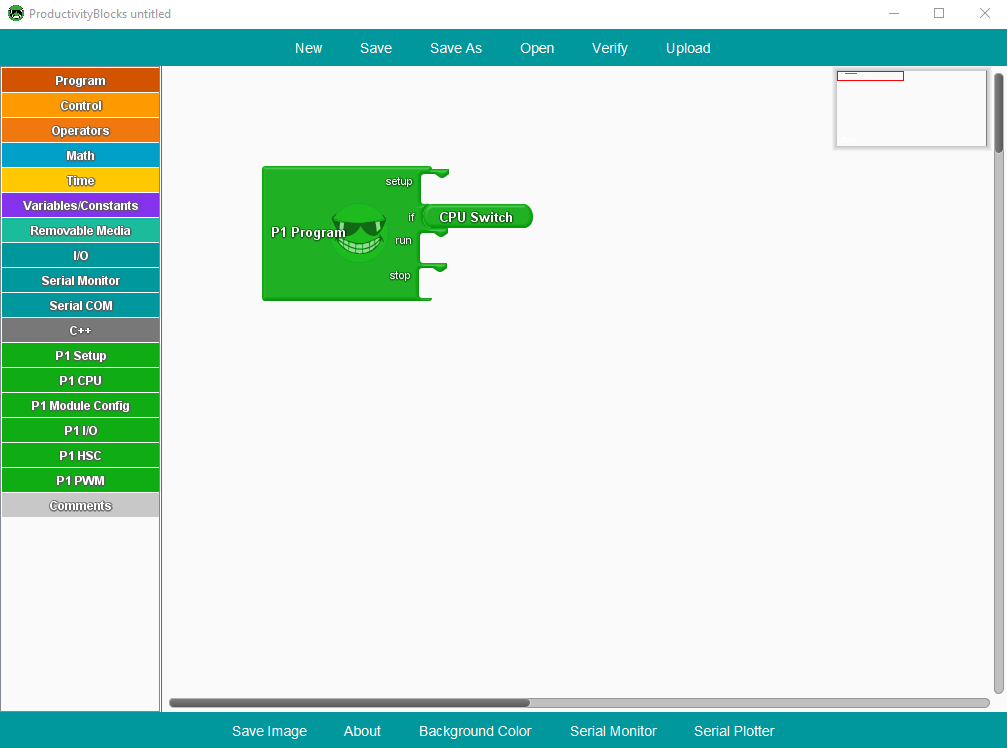
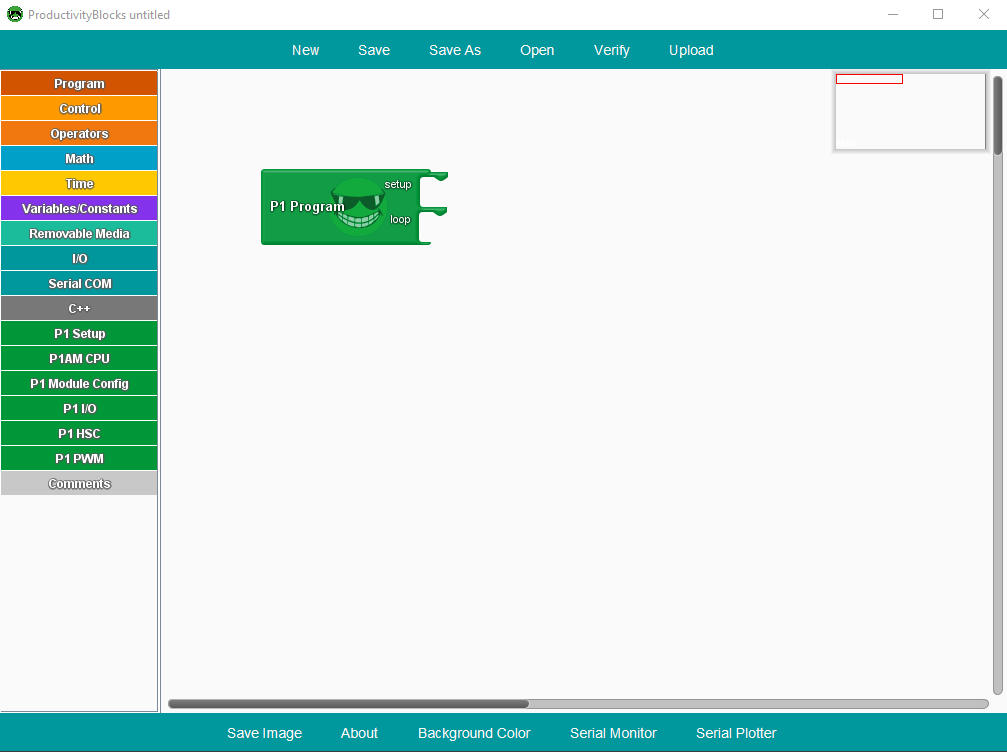
1.0.0.12
Added code blocks for variables and string conversion blocks. Updated readme.md

Changed region(s): [[0.0, 0.0307, 1.0, 1.0], [0.2463, 0.2152, 0.5541, 0.3997], [0.0, 0.0, 0.1847, 0.0307]]

diff --git a/ardublock/src/main/java/com/ardublock/ui/listener/GenerateCodeButtonListener.java b/ardublock/src/main/java/com/ardublock/ui/listener/GenerateCodeButtonListener.java
@@ -1,13 +1,19 @@
 package com.ardublock.ui.listener;
 
+import java.awt.BorderLayout;
+import java.awt.Component;
 import java.awt.event.ActionEvent;
 import java.awt.event.ActionListener;
 import java.util.HashSet;
 import java.util.ResourceBundle;
 import java.util.Set;
 
+import javax.swing.BoxLayout;
+import javax.swing.JCheckBox;
 import javax.swing.JFrame;
+import javax.swing.JLabel;
 import javax.swing.JOptionPane;
+import javax.swing.JPanel;
 
 import com.ardublock.core.Context;
 import com.ardublock.translator.AutoFormat;
@@ -28,6 +34,7 @@ public class GenerateCodeButtonListener implements ActionListener
 	private Workspace workspace; 
 	private ResourceBundle uiMessageBundle;
 	private boolean verifyOnly = false;
+	private final String uploadWarning = "Uploading a program will wipe any existing program from the connected Arduino.";
 	
 	public GenerateCodeButtonListener(JFrame frame, Context context, boolean verifyOnly)
 	{
@@ -37,9 +44,60 @@ public class GenerateCodeButtonListener implements ActionListener
 		uiMessageBundle = ResourceBundle.getBundle("com/ardublock/block/ardublock");
 		this.verifyOnly = verifyOnly;
 	}
-	
+	//CHANGED
+	public static class UploadWarning extends JPanel {
+
+	    /**
+		 * 
+		 */
+		private static final long serialVersionUID = 1L;
+		private JCheckBox dontAskMeAgain;
+	    private static boolean askAgain = true;
+	    
+	    public UploadWarning(Object message) {
+	        setLayout(new BorderLayout());
+	        if (message instanceof Component) {
+	            add((Component) message);
+	        } else if (message != null) {
+	            add(new JLabel(message.toString()));
+	        }
+	        dontAskMeAgain = new JCheckBox("Don't ask me again");
+	        JPanel panel = new JPanel();
+	        panel.setLayout(new BoxLayout(panel, BoxLayout.Y_AXIS));
+	        panel.add(new JLabel("Do you want to continue?"));
+	        panel.add(new JLabel(" "));
+	        panel.add(dontAskMeAgain);
+	        add(panel, BorderLayout.SOUTH);
+	    }
+
+	    public boolean dontAskMeAgain() {
+	        return dontAskMeAgain.isSelected();
+	    }
+
+	    public static int showConfirmDialog(Component parent, Object message) {
+
+	        int result = JOptionPane.NO_OPTION;
+
+	        if (!askAgain) {
+	            result = JOptionPane.OK_OPTION;
+	        } else {
+	            UploadWarning panel = new UploadWarning(message);
+	            result = JOptionPane.showConfirmDialog(parent, panel);
+	            if (panel.dontAskMeAgain()) {
+	            	askAgain = false;
+	            }
+	        }
+	        return result;
+	    }
+	}
 	public void actionPerformed(ActionEvent e)
 	{
+		if(!verifyOnly) {
+			if(JOptionPane.OK_OPTION != UploadWarning.showConfirmDialog(parentFrame, uploadWarning)) {
+				return;
+			}	
+		}
+		
 		boolean success;
 		success = true;
 		Translator translator = new Translator(workspace);

diff --git a/ardublock/src/main/java/com/ardublock/core/Context.java b/ardublock/src/main/java/com/ardublock/core/Context.java
@@ -4,6 +4,7 @@ import java.io.File;
 import java.io.FileOutputStream;
 import java.io.IOException;
 import java.io.InputStream;
+import java.io.StringReader;
 import java.util.ArrayList;
 import java.util.HashSet;
 import java.util.Iterator;
@@ -17,6 +18,7 @@ import javax.xml.parsers.ParserConfigurationException;
 
 import org.w3c.dom.Document;
 import org.w3c.dom.Element;
+import org.xml.sax.InputSource;
 import org.xml.sax.SAXException;
 
 import processing.app.Editor;
@@ -24,6 +26,8 @@ import processing.app.Editor;
 import com.ardublock.ui.listener.OpenblocksFrameListener;
 
 import edu.mit.blocks.codeblocks.Block;
+import edu.mit.blocks.codeblocks.BlockLink;
+import edu.mit.blocks.codeblocks.BlockLinkChecker;
 import edu.mit.blocks.controller.WorkspaceController;
 import edu.mit.blocks.renderable.BlockUtilities;
 import edu.mit.blocks.renderable.FactoryRenderableBlock;
@@ -170,21 +174,27 @@ public class Context
 			// TODO Auto-generated catch block
 			e.printStackTrace();
 			workspaceController.loadFreshWorkspace();
-		}
-        */
-		
+		}*/
+		/*try {
+			workspaceController.resetWorkspace();
+			workspaceController.loadProjectFromPath("C:\\Users\\proberts\\Documents\\GitHub\\ProductivityBlocks\\ardublock\\src\\main\\resources\\com\\ardublock\\default.abp");
+		} catch (IOException e) {
+			// TODO Auto-generated catch block
+			e.printStackTrace();
+		}*/
 		Workspace workspace = workspaceController.getWorkspace();
 		Page page = workspace.getPageNamed("Main");
 		
 		FactoryManager manager = workspace.getFactoryManager();
 		Block newBlock;
-        newBlock = new Block(workspace, "P1_program", false);
+        newBlock = new Block(workspace, "P1_program");
         FactoryRenderableBlock factoryRenderableBlock = new FactoryRenderableBlock(workspace, manager, newBlock.getBlockID());
         RenderableBlock renderableBlock = factoryRenderableBlock.createNewInstance();
+
         renderableBlock.setLocation(100, 100);
+
         page.addBlock(renderableBlock);
-        
-        
+
 	}
 	
 	//determine OS

diff --git a/ardublock/src/main/java/com/ardublock/translator/block/ADC/P1_program.java b/ardublock/src/main/java/com/ardublock/translator/block/ADC/P1_program.java
@@ -41,29 +41,23 @@ public class P1_program extends TranslatorBlock
 		this.setupCommand.add(ret);
 		
 		translator.registerBodyTranslateFinishCallback(this);
-		translator.addDefinitionCommand(runstopswitch.ARDUBLOCK_DIGITAL_READ_DEFINE);
 
 		ret="";
-		ret = "void loop()\n{\n"
-				+ "if(" + runstopswitch.callString + ")\n{\n";
-		TranslatorBlock translatorBlock2 = getTranslatorBlockAtSocket(2);
+		ret = "void loop()\n{\n";
+		TranslatorBlock translatorBlock2 = getTranslatorBlockAtSocket(1);
 		while (translatorBlock2 != null)
 		{
 			
 			ret = ret + translatorBlock2.toCode();
 			translatorBlock2 = translatorBlock2.nextTranslatorBlock();
 		}
-		ret += "\n}\n else \n{\n";
-		TranslatorBlock translatorBlock3 = getTranslatorBlockAtSocket(3);
-		while (translatorBlock3 != null)
-		{
-			
-			ret = ret + translatorBlock3.toCode();
-			translatorBlock3 = translatorBlock3.nextTranslatorBlock();
-		}
-		ret = ret + "}\n";
 		
-		ret += "}\n";
+		if (translator.isScoopProgram())
+		{
+			ret += "yield();\n";
+		}
+		
+		ret = ret + "}\n\n";
 		return ret;
 	}
 	

diff --git a/openblocks/src/main/java/edu/mit/blocks/renderable/RenderableBlock.java b/openblocks/src/main/java/edu/mit/blocks/renderable/RenderableBlock.java
@@ -30,6 +30,7 @@ import javax.swing.BorderFactory;
 import javax.swing.ImageIcon;
 import javax.swing.JComponent;
 import javax.swing.JToolTip;
+import javax.swing.ToolTipManager;
 import javax.swing.KeyStroke;
 import javax.swing.SwingUtilities;
 
@@ -211,7 +212,8 @@ public class RenderableBlock extends JComponent implements SearchableElement,
 		 * events for focus traversal keys.
 		 */
 		this.setFocusTraversalKeysEnabled(false);
-
+		ToolTipManager.sharedInstance().setDismissDelay(30000);
+		ToolTipManager.sharedInstance().setInitialDelay(500);
 		this.parent = parent;
 		this.blockID = blockID;
 		workspace.getEnv().addRenderableBlock(this);
@@ -1844,7 +1846,7 @@ public class RenderableBlock extends JComponent implements SearchableElement,
 	}
 
 	// /////////////////
-	// MOUSE EVENTS //
+	// MOUSE EVENTS   //
 	// /////////////////
 	/**
 	 * Makes public the protected processMouseEvent() method from Component so

diff --git a/openblocks/src/main/java/edu/mit/blocks/codeblocks/Block.java b/openblocks/src/main/java/edu/mit/blocks/codeblocks/Block.java
@@ -1447,11 +1447,15 @@ public class Block implements ISupportMemento {
             if (nameMatcher.find()) {
                 genusName = nameMatcher.group(1);
             }
-            if(node.getAttributes().getNamedItem("is-raw-code-block").toString() != null) {
+            try {
                 nameMatcher = attrExtractor.matcher(node.getAttributes().getNamedItem("is-raw-code-block").toString());
                 if(nameMatcher.find()) {
                 	isCodeBlock = (nameMatcher.group(1).equals("yes"));
                 }
+            }
+            catch (Exception e)
+            {
+            	;
             }
             //load optional items
             Node opt_item = node.getAttributes().getNamedItem("has-focus");

diff --git a/ardublock/src/main/java/com/ardublock/translator/block/toString.java b/ardublock/src/main/java/com/ardublock/translator/block/toString.java
@@ -1,0 +1,22 @@
+package com.ardublock.translator.block;
+
+import com.ardublock.translator.Translator;
+import com.ardublock.translator.block.exception.SocketNullException;
+import com.ardublock.translator.block.exception.SubroutineNotDeclaredException;
+
+public class toString extends TranslatorBlock
+{
+	
+	public toString(Long blockId, Translator translator, String codePrefix, String codeSuffix, String label)
+	{
+		super(blockId, translator, codePrefix, codeSuffix, label);
+	}
+
+	@Override
+	public String toCode() throws SocketNullException, SubroutineNotDeclaredException
+	{
+		String input = this.getRequiredTranslatorBlockAtSocket(0).toCode();
+		return codePrefix + "String(" + input + ")" + codeSuffix;
+	}
+	
+}

diff --git a/ardublock/src/main/java/com/ardublock/translator/block/cppVar.java b/ardublock/src/main/java/com/ardublock/translator/block/cppVar.java
@@ -1,0 +1,21 @@
+package com.ardublock.translator.block;
+
+import com.ardublock.translator.Translator;
+import com.ardublock.translator.block.exception.SocketNullException;
+import com.ardublock.translator.block.exception.SubroutineNotDeclaredException;
+
+public class cppVar extends TranslatorBlock
+{
+	
+	public cppVar(Long blockId, Translator translator, String codePrefix, String codeSuffix, String label)
+	{
+		super(blockId, translator, codePrefix, codeSuffix, label);
+	}
+
+	@Override
+	public String toCode() throws SocketNullException, SubroutineNotDeclaredException
+	{
+		return codePrefix + label + codeSuffix;
+	}
+	
+}

diff --git a/ardublock/src/main/java/com/ardublock/ui/OpenblocksFrame.java b/ardublock/src/main/java/com/ardublock/ui/OpenblocksFrame.java
@@ -19,14 +19,20 @@ import java.awt.event.MouseAdapter;
 import java.awt.event.MouseEvent;
 import java.awt.image.BufferedImage;
 import java.io.File;
+import java.io.FileReader;
 import java.io.IOException;
+import java.io.Reader;
 import java.io.Serializable;
 import java.net.URL;
 import java.util.ArrayList;
+import java.util.Properties;
 import java.util.ResourceBundle;
 import java.awt.Color;
+import java.awt.Component;
+
 import javax.imageio.ImageIO;
 import javax.swing.JButton;
+import javax.swing.JCheckBox;
 import javax.swing.JFileChooser;
 import javax.swing.JFrame;
 import javax.swing.JLabel;

diff --git a/ardublock/src/main/java/com/ardublock/translator/block/SetterVariableNumberUnsignedLongBlock.java b/ardublock/src/main/java/com/ardublock/translator/block/SetterVariableNumberUnsignedLongBlock.java
@@ -20,7 +20,7 @@ public class SetterVariableNumberUnsignedLongBlock extends TranslatorBlock
   public String toCode() throws SocketNullException, SubroutineNotDeclaredException
   {
     TranslatorBlock tb = this.getRequiredTranslatorBlockAtSocket(0);
-    if (!(tb instanceof VariableNumberUnsignedLongBlock)) {
+    if (!(tb instanceof VariableNumberUnsignedLongBlock) && !(tb instanceof cppVar)) {
       throw new BlockException(blockId, uiMessageBundle.getString("ardublock.error_msg.long_number_var_slot"));
     }
     

diff --git a/ardublock/src/main/java/com/ardublock/translator/block/SetterVariableNumberDoubleBlock.java b/ardublock/src/main/java/com/ardublock/translator/block/SetterVariableNumberDoubleBlock.java
@@ -20,7 +20,7 @@ public class SetterVariableNumberDoubleBlock extends TranslatorBlock
   public String toCode() throws SocketNullException, SubroutineNotDeclaredException
   {
     TranslatorBlock tb = this.getRequiredTranslatorBlockAtSocket(0);
-    if (!(tb instanceof VariableNumberDoubleBlock)) {
+    if (!(tb instanceof VariableNumberDoubleBlock) && !(tb instanceof cppVar)) {
       throw new BlockException(blockId, uiMessageBundle.getString("ardublock.error_msg.double_number_var_slot"));
     }
     

diff --git a/ardublock/src/main/java/com/ardublock/translator/block/SetterVariableDigitalBlock.java b/ardublock/src/main/java/com/ardublock/translator/block/SetterVariableDigitalBlock.java
@@ -19,7 +19,7 @@ public class SetterVariableDigitalBlock extends TranslatorBlock
 	public String toCode() throws SocketNullException, SubroutineNotDeclaredException
 	{
 		TranslatorBlock tb = this.getRequiredTranslatorBlockAtSocket(0);
-		if (!(tb instanceof VariableDigitalBlock)) {
+		if (!(tb instanceof VariableDigitalBlock) && !(tb instanceof cppVar)) {
 			throw new BlockException(blockId, uiMessageBundle.getString("ardublock.error_msg.digital_var_slot"));
 		}
 		

diff --git a/ardublock/src/main/java/com/ardublock/translator/block/storage/SDRead2Block.java b/ardublock/src/main/java/com/ardublock/translator/block/storage/SDRead2Block.java
@@ -38,6 +38,6 @@ public class SDRead2Block extends TranslatorBlock
 		translator.addDefinitionCommand(SDReadRoutine);
 		translator.addHeaderFile("SD.h");
 	    translator.addSetupCommand("SD.begin("+ Cs +");\n");
-        return codePrefix + "__ProBlocksSDRead(\""+ fileName +"\", " + seek + ", " + readLength +", " + Cs + ")" + codeSuffix;
+        return codePrefix + "__ProBlocksSDRead(" + fileName + ", " + seek + ", " + readLength +", " + Cs + ")" + codeSuffix;
 	}
 }
